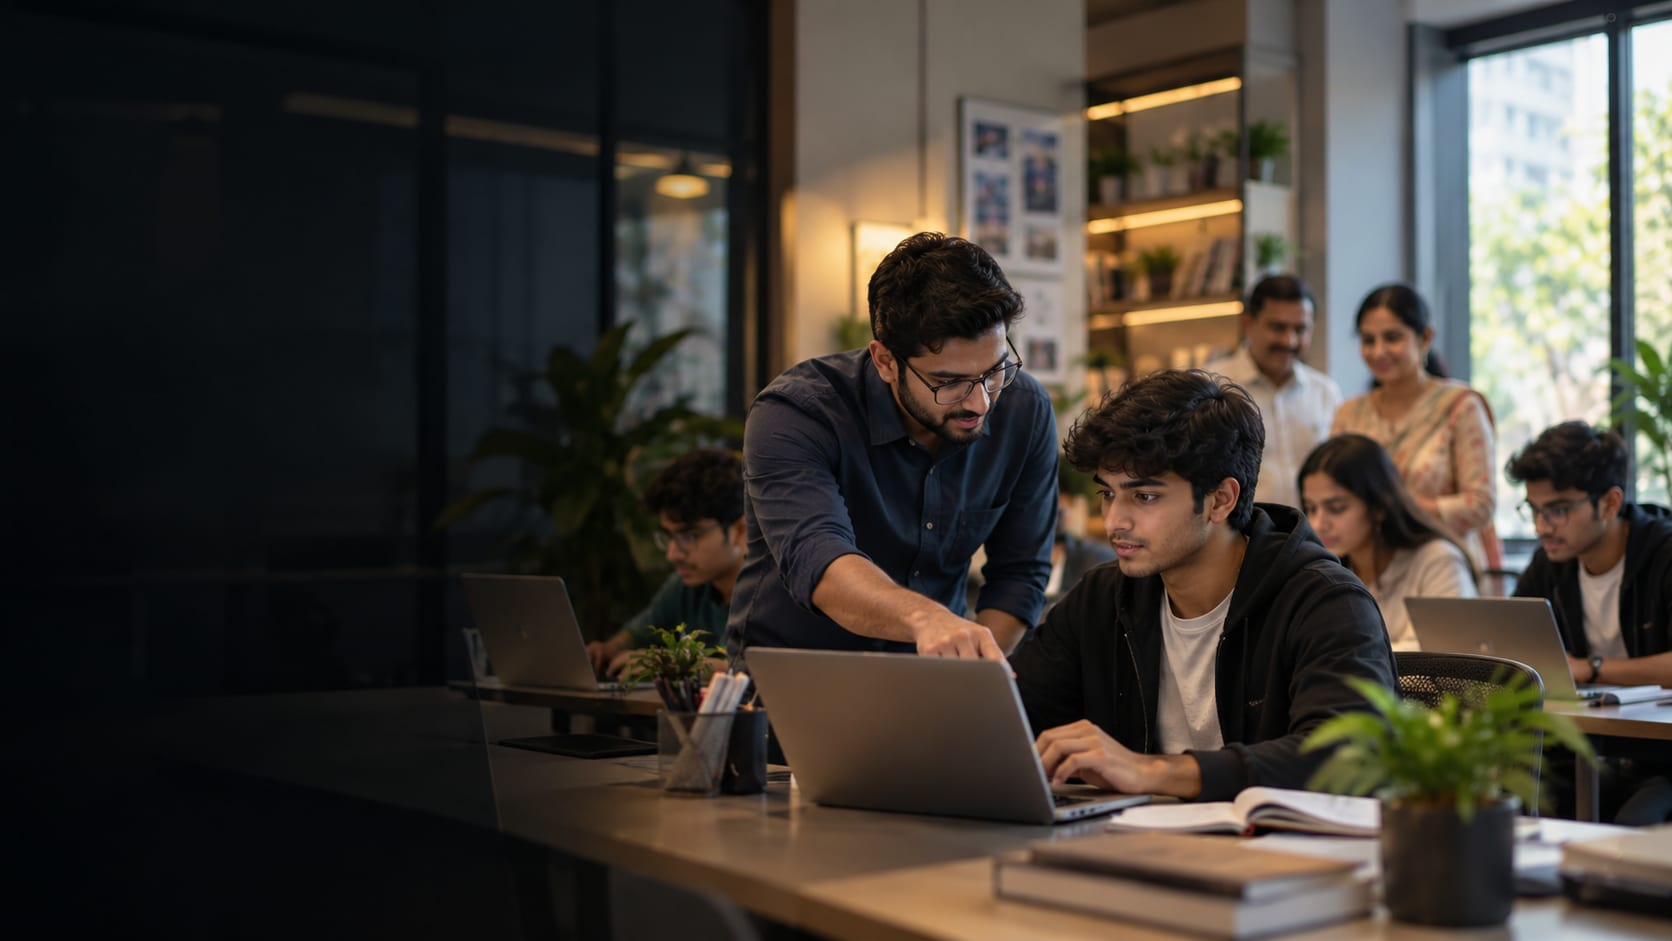
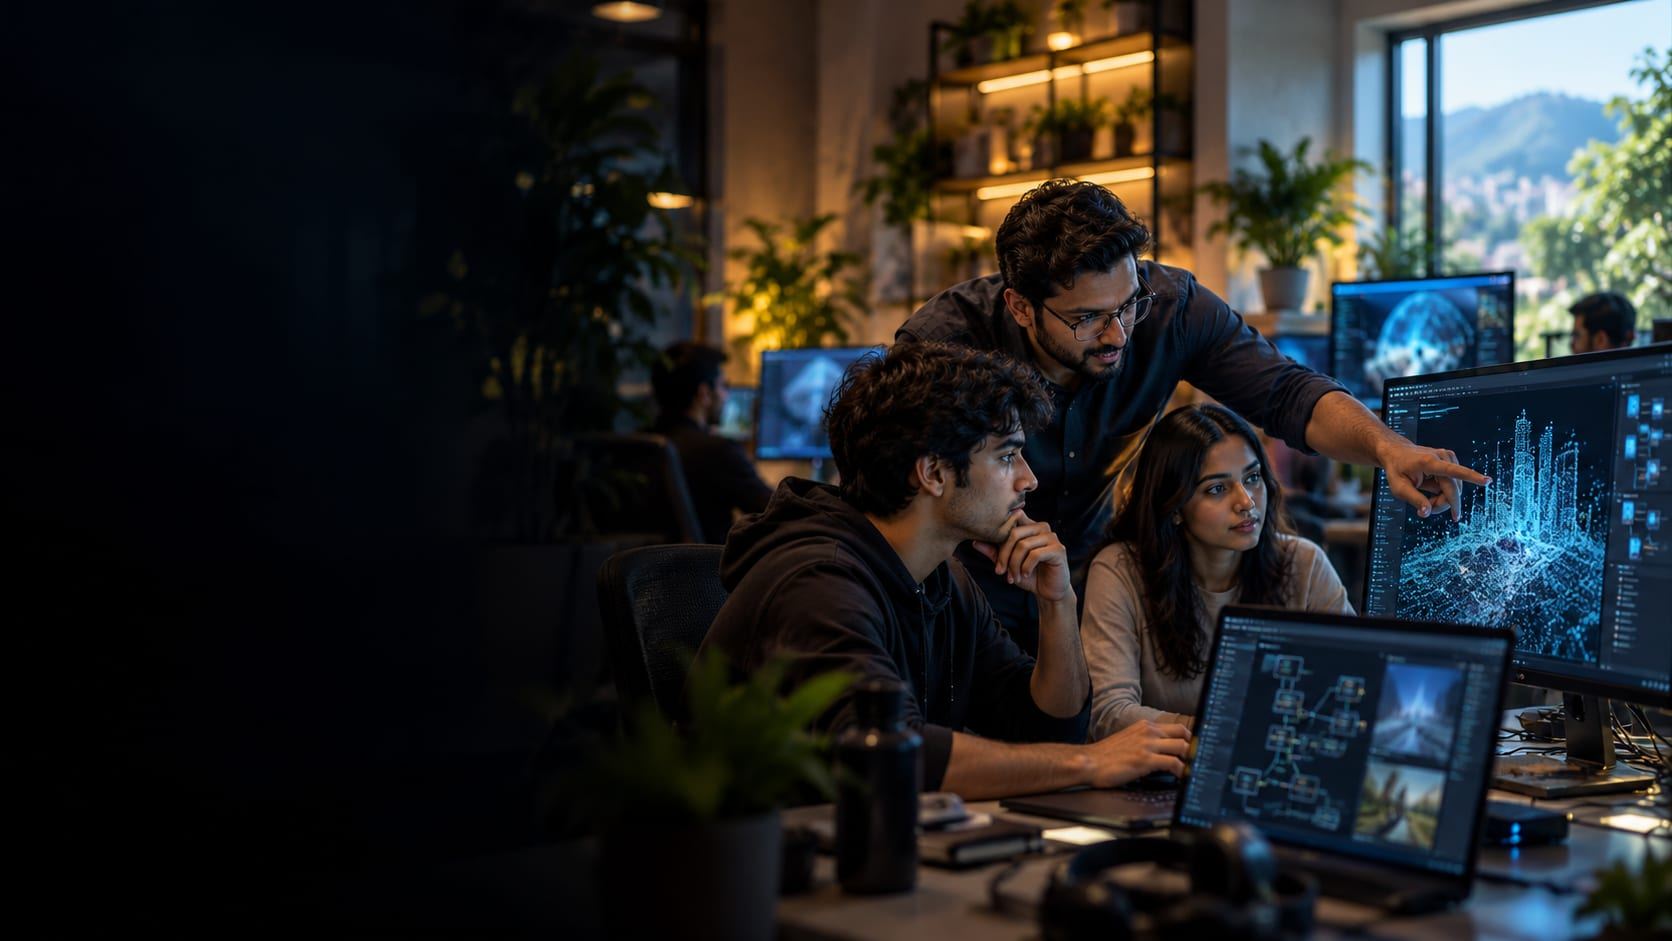
Replace the homepage hero photo
Swapped in the supplied team/AI-dashboard photo for the existing counsellor photo.
Converted it to an optimized JPEG via sharp (134KB vs. a 1.8MB raw PNG, matching the
previous image's compression), and adjusted the crop position and alt text to match the
new composition (subjects and the glowing screen in the right two-thirds, dark office
background on the left where the headline text sits).

diff --git a/src/components/home/hero.tsx b/src/components/home/hero.tsx
@@ -6,9 +6,10 @@ import { cn } from "cn";
 import { HeroVideoCard } from "./hero-video-card";
 
 const HERO_IMAGE_SRC = "/brand/index-hero.jpg";
-// The people and the laptop sit in the right two-thirds of the photo; the left third is a plain dark wall, which is
-// exactly where the text sits. This keeps that same framing however the image gets cropped at other hero shapes.
-const HERO_IMAGE_POSITION = "72% 38%";
+// The team and the glowing data-visualisation screen sit in the right two-thirds of the photo; the left third is
+// dark office background, which is exactly where the text sits. This keeps that same framing however the image
+// gets cropped at other hero shapes.
+const HERO_IMAGE_POSITION = "70% 42%";
 
 // `outline-solid` matters: the shared button style sets `outline-none`, which would otherwise cancel the ring.
 const FOCUS = "focus-visible:outline-2 focus-visible:outline-solid focus-visible:outline-offset-4 focus-visible:outline-background";
@@ -20,7 +21,7 @@ export function Hero() {
         <div className="relative isolate flex min-h-[560px] flex-col justify-center overflow-hidden rounded-[2.5rem] border border-white/10 bg-[#0b1720] px-6 py-10 sm:min-h-[640px] sm:px-10 sm:py-16 lg:min-h-[720px] lg:px-16 xl:min-h-[800px]">
           <Image
             src={HERO_IMAGE_SRC}
-            alt="A Techno Gurukul counsellor talking with a student and their parents"
+            alt="A mentor pointing out details on a glowing data visualisation to two students at Techno Gurukul"
             fill
             priority
             sizes="100vw"
